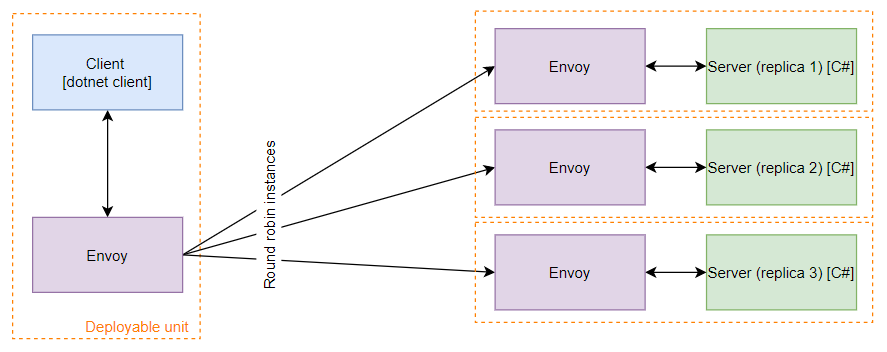
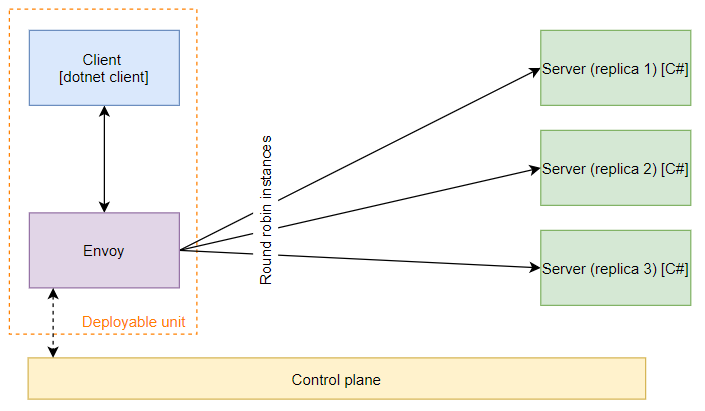
Add separate service mesh and dynamic sidecar example

diff --git a/scenarios/NetCore.DotNet.ServiceMesh/README.md b/scenarios/NetCore.DotNet.ServiceMesh/README.md
@@ -1,4 +1,4 @@
-# Loadbalancing using sidecar proxy with dynamic configuration for gRPC dotnet client
+# Loadbalancing via service mesh for gRPC dotnet client
 
 ## Overview
 
@@ -21,9 +21,8 @@ docker build -t grpc-server:latest -f .\NetCoreGrpc.ServerApp\Dockerfile .
 
 ## Create resources in K8s
 ```
-kubectl label --overwrite namespace default istio-injection=disabled
-kubectl apply -f .\k8s\grpc-server-non-headless.yaml
 kubectl label --overwrite namespace default istio-injection=enabled
+kubectl apply -f .\k8s\grpc-server-non-headless.yaml
 kubectl create -f .\k8s\grpc-dotnet-client-sidecar-dynamic.yaml
 ```
 
@@ -37,4 +36,12 @@ kubectl logs grpc-dotnet-client-sidecar-dynamic grpc-dotnet-client-sidecar-dynam
 kubectl delete -f .\k8s\grpc-dotnet-client-sidecar-dynamic.yaml
 kubectl delete -f .\k8s\grpc-server-non-headless.yaml
 kubectl label --overwrite namespace default istio-injection=disabled
+```
+
+## Verify connection using kiali
+
+__NOTE: This works only if kiali is present__ 
+
+```
+istioctl dashboard kiali
 ```
